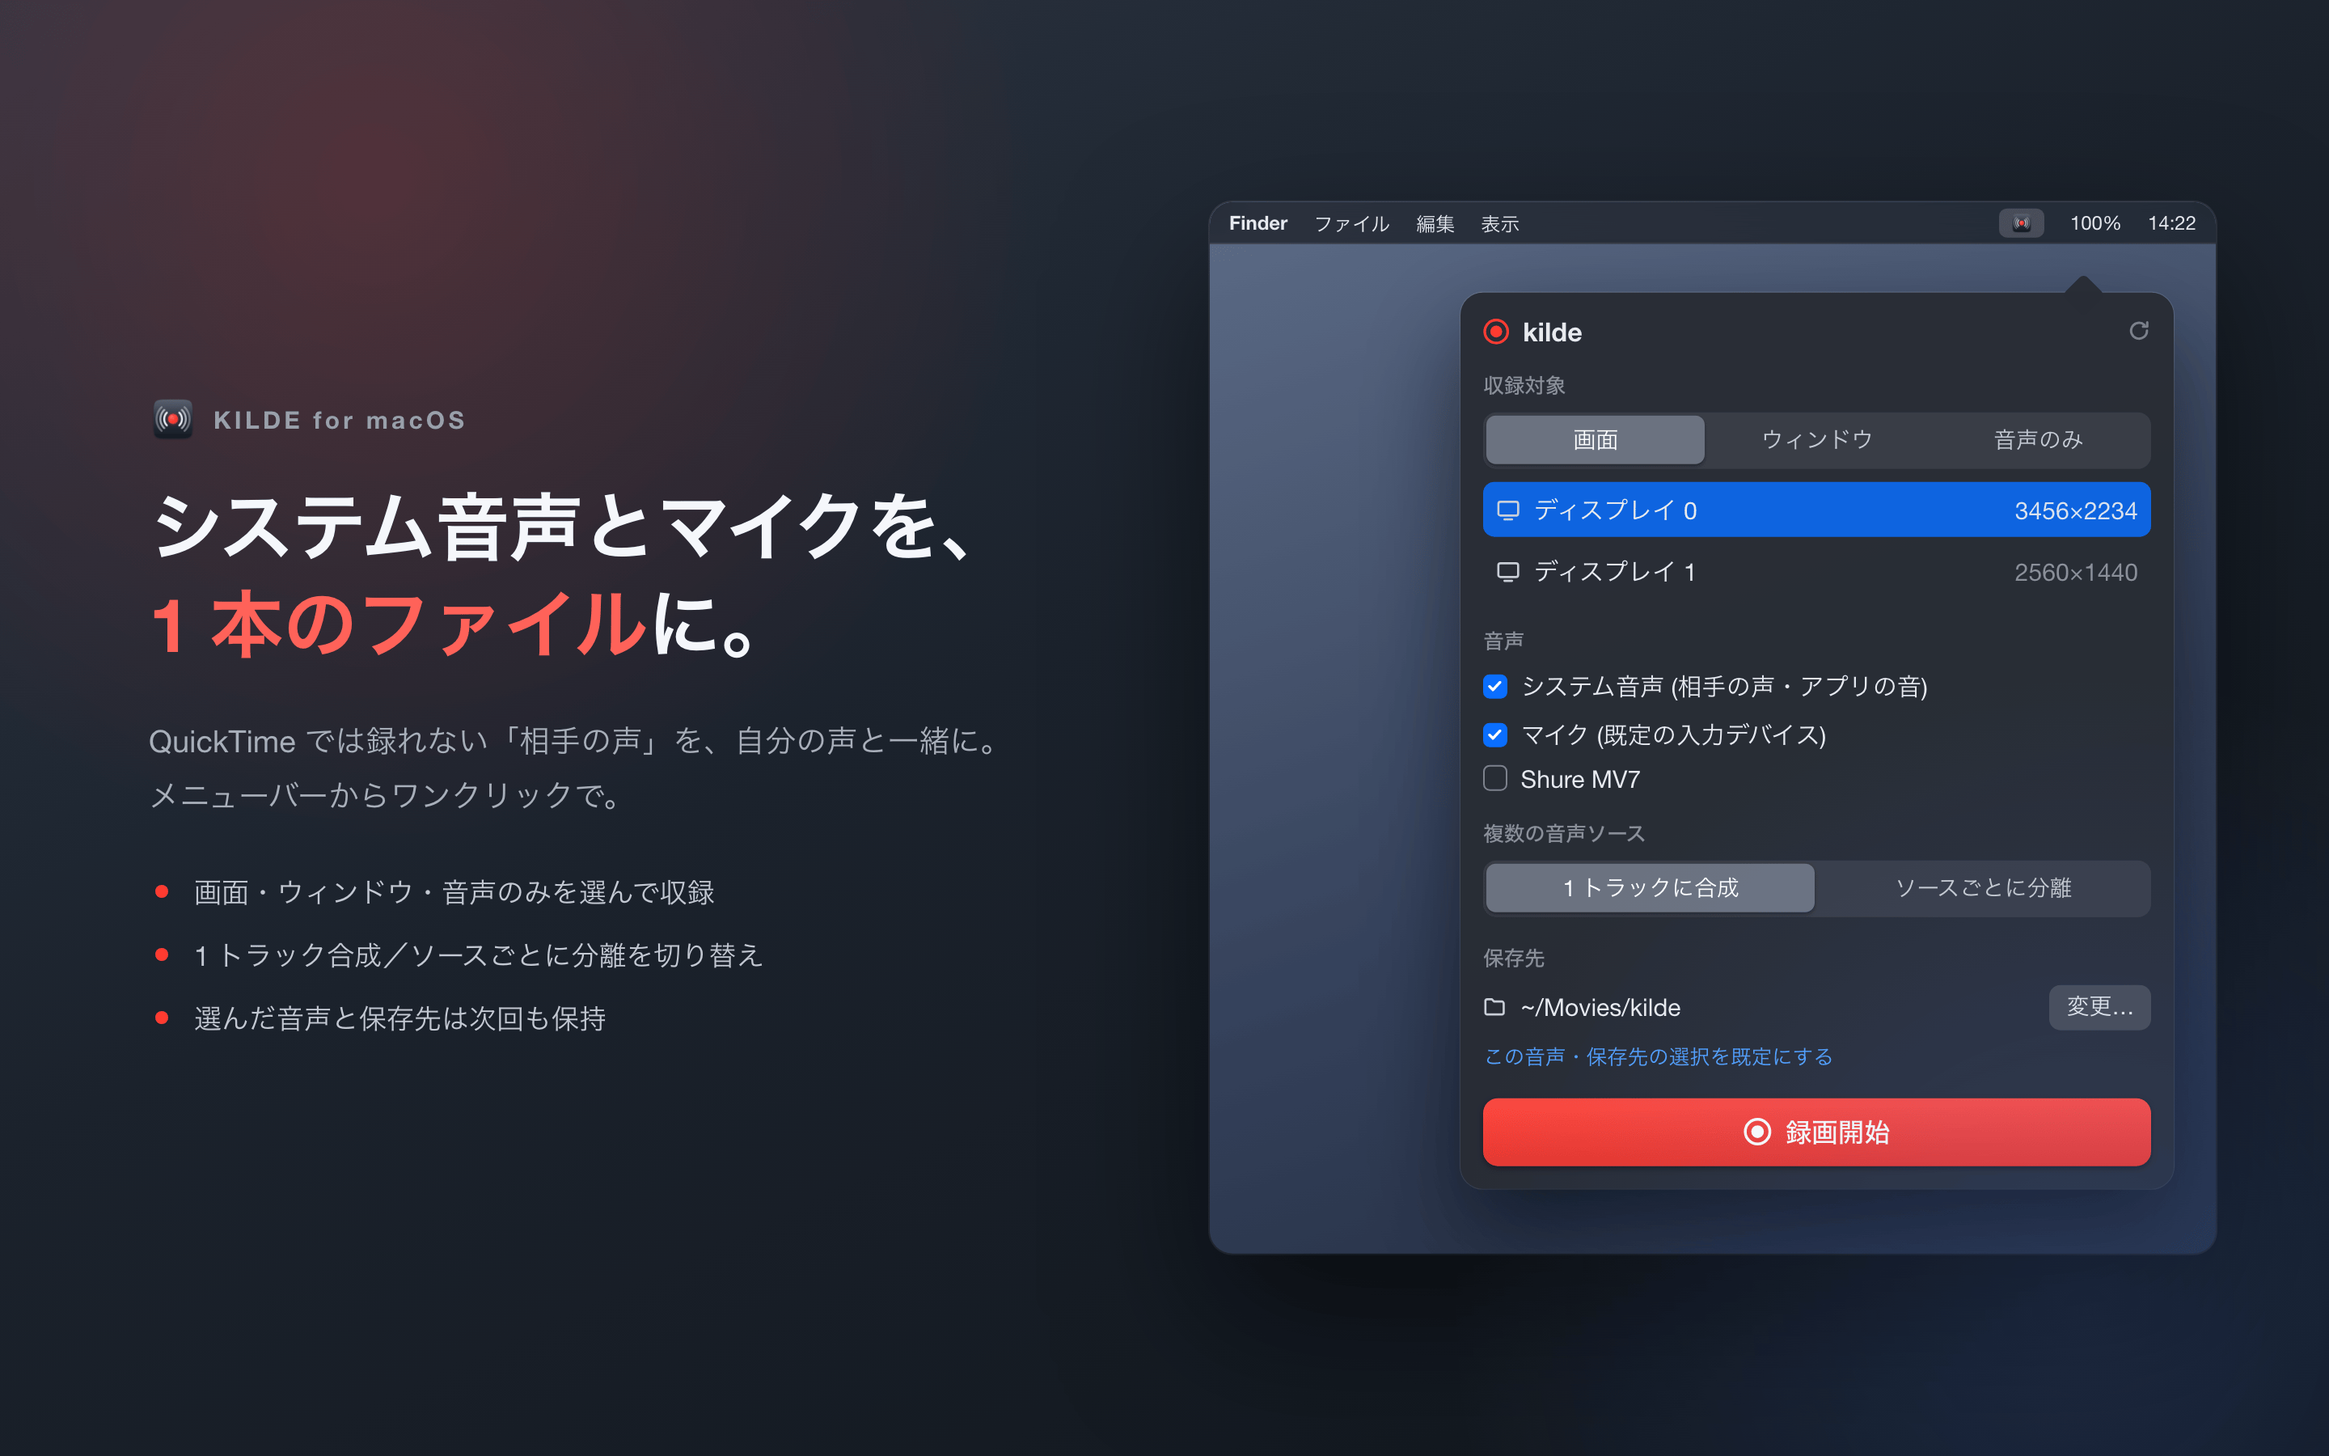
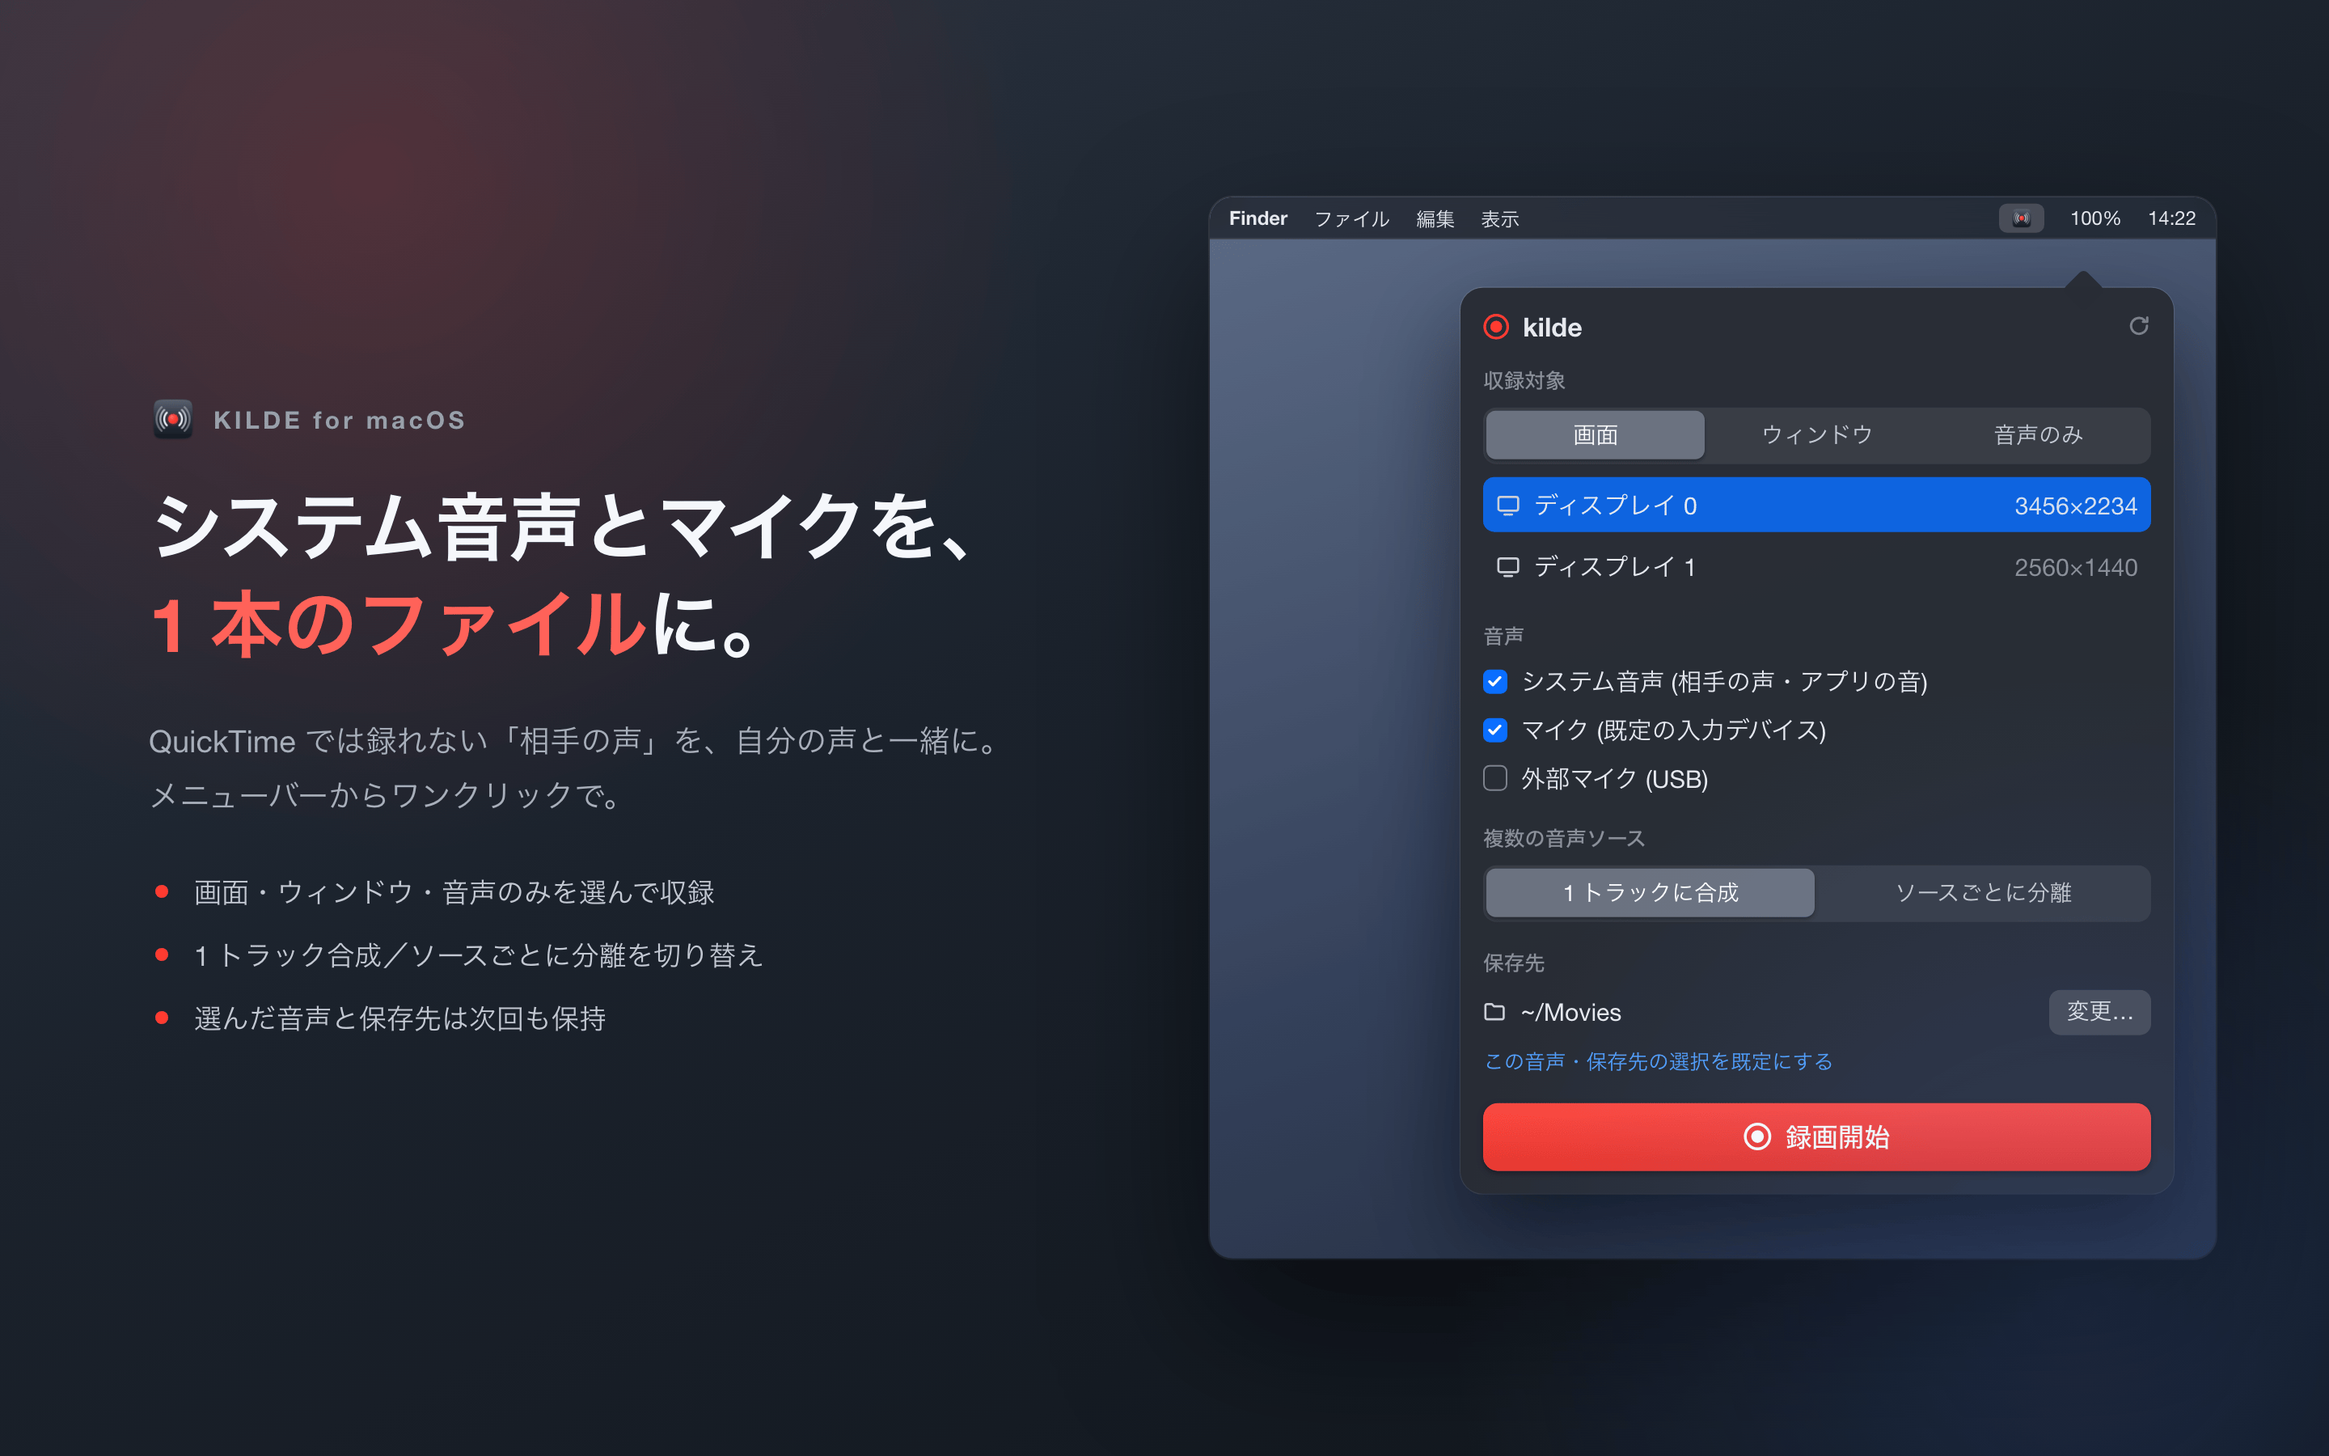
Address the remaining review findings on the App Store work
Code:
- The MAS build hung when KILDE_GUI_SELFTEST_UPDATE=1 was set, because the
  Sparkle check is compiled out and nothing else ended the process. It now
  fails with an explanation.
- A save location restored from config but unreachable under the sandbox
  (an unplugged volume, a folder the app has no bookmark for) kept the
  recording broken on every attempt. RecordingSetup falls back to ~/Movies
  when the path is not writable; isWritableFile reflects sandbox
  permissions (measured).

appstore-archive.sh:
- Validate --version the way App Store Connect does (1-3 integers, <= 18
  characters) instead of stamping anything into Info.plist.
- Require --version and --build with --upload, so an upload cannot go out
  carrying the repository's stale 0.1.0 / build 1.
- Export into an empty directory and move the result out, so a stale .pkg
  from an earlier run can never be reported as the current artifact.

Screenshot tooling:
- Drop the real product name from the mock, match the default save
  location to what the MAS build actually shows (~/Movies), and keep the
  "safe finish" claim within what DESIGN.md guarantees.
- icon.py resolves a relative output path against its own location.
- build.py warns when the expected font is missing.
- Add sync_appicon.py: icon.py/render.py never touched the asset catalog,
  so a regenerated icon silently never reached the build.
- Regenerate the three affected screenshots.
[…]

diff --git a/gui/Sources/RecordingSetup.swift b/gui/Sources/RecordingSetup.swift
@@ -94,6 +94,13 @@ final class RecordingSetup: ObservableObject {
         // request を作り直して復元結果を上書きする (CodeRabbit レビュー指摘)
         if let restored = SandboxOutputDirectory.restore() {
             request.outputDirectory = restored
+        } else if !FileManager.default.isWritableFile(atPath: request.outputDirectory.path) {
+            // bookmark が無い・復元できない (外付けを外した等) とき、config に残った
+            // 保存先はサンドボックスから開けないことがある。そのままだと録画のたびに
+            // 開始前で失敗し、既定へ戻る手段もユーザーに見えない (cubic レビュー指摘)。
+            // `isWritableFile` はサンドボックスの権限を反映する — movies エンタイトルメント
+            // だけのとき ~/Movies=true, ~/Desktop=false になることを実測 (2026-09-18)
+            request.outputDirectory = fallback
         }
 #endif
         hotkeyDraft = config.hotkey ?? ""

diff --git a/gui/Sources/SelfTest.swift b/gui/Sources/SelfTest.swift
@@ -34,6 +34,13 @@ enum SelfTest {
             reportUpdateSetup(updater: updater)
             return
         }
+#else
+        // MAS ビルドには Sparkle が無いので検証できない。**黙って素通ししない** —
+        // 素通しすると「終了しないセルフテスト」になり、直接起動したプロセスが
+        // 常駐する (検証スクリプトがハングする。cubic レビュー指摘)
+        if env["KILDE_GUI_SELFTEST_UPDATE"] == "1" {
+            fail("KILDE_GUI_SELFTEST_UPDATE は MAS ビルドでは使えません (Sparkle 非搭載)")
+        }
 #endif
         // KILDE_GUI_SELFTEST_PERMISSIONS=1: 構成ごとに「何の権限を要求するか」を出して終わる (issue #19)。
         // 実際に TCC の許可を取り消さないと確かめられない部分 (案内の見た目) は人の目に頼るしかないが、

diff --git a/docs/appstore/tools/sync_appicon.py b/docs/appstore/tools/sync_appicon.py
@@ -1,0 +1,54 @@
+# -*- coding: utf-8 -*-
+"""render.py が書き出した png/ を gui/Resources/Assets.xcassets/AppIcon.appiconset/ へ同期する。
+
+`icon.py` → `render.py` はアイコンの SVG と PNG を作るだけで、**ビルドに入る
+asset catalog は更新しない**。同期を忘れるとアイコンを作り直したつもりで
+MAS 成果物が旧版のままになる (cubic / CodeRabbit レビュー指摘)。
+
+**アイコンの意匠を作り直したときにだけ実行すること。** リポジトリに入っている
+PNG は納品物 `kilde-appicon.zip` の書き出し (README §1) で、`tools/` のサイズ別
+バリアントとは別物 — 実行すると後者で置き換わる。
+
+    python3 icon.py ../icon && python3 render.py && python3 sync_appicon.py
+"""
+import json
+import pathlib
+import shutil
+import sys
+
+HERE = pathlib.Path(__file__).resolve().parent
+# 入力は render.py の出力先、出力はビルドが読む asset catalog。どちらも
+# スクリプト位置基準で解決する (render.py / build.py と同じ方針)
+PNG = HERE.parent / "png"
+ICONSET = HERE.parents[2] / "gui" / "Resources" / "Assets.xcassets" / "AppIcon.appiconset"
+
+
+def main() -> int:
+    contents_path = ICONSET / "Contents.json"
+    if not contents_path.exists():
+        print(f"error: {contents_path} が見つかりません", file=sys.stderr)
+        return 1
+    images = json.loads(contents_path.read_text(encoding="utf-8"))["images"]
+    missing = []
+    for image in images:
+        filename = image.get("filename")
+        if not filename:
+            continue
+        # 実ピクセル数は size ("16x16") の一辺 × scale ("2x")。
+        # 16/32/64/128/256/512/1024 は render.py の PLAN と過不足なく一致する
+        pixels = int(image["size"].split("x")[0]) * int(image["scale"].rstrip("x"))
+        source = PNG / f"icon_{pixels}.png"
+        if not source.exists():
+            missing.append(source.name)
+            continue
+        shutil.copyfile(source, ICONSET / filename)
+        print(f"{source.name} -> {filename}")
+    if missing:
+        print("error: PNG が足りません: " + ", ".join(sorted(set(missing)))
+              + " (先に icon.py と render.py を実行してください)", file=sys.stderr)
+        return 1
+    return 0
+
+
+if __name__ == "__main__":
+    raise SystemExit(main())

diff --git a/docs/appstore/tools/build.py b/docs/appstore/tools/build.py
@@ -171,9 +171,9 @@ SHOTS = [
                  "ログイン時に自動起動して録り逃さない"],
          body=panel.panel_audio_only()),
     dict(name="05-safe-finish",
-         h1='どう終わっても、<br><span class="hl">壊れたファイルを残さない</span>。',
-         sub="停止しても、アプリを終了しても、アップデートの再起動でも。書き込み中のファイルは必ず仕上げてから終了します。",
-         points=["終了経路によらずファイルをファイナライズ",
+         h1='停止しても終了しても、<br><span class="hl">壊れたファイルを残さない</span>。',
+         sub="停止ボタンでも、メニューからの終了でも。書き込み中のファイルは仕上げてから終了します。",
+         points=["停止・アプリ終了のどちらでもファイナライズ",
                  "最近の録画から Finder へワンクリック",
                  "オープンソース (MIT) / データ収集なし"],
          body=panel.panel_done()),
@@ -186,6 +186,15 @@ async def main():
     async with async_playwright() as p:
         b = await p.chromium.launch()
         pg = await b.new_page(viewport={"width": 1440, "height": 900}, device_scale_factor=2)
+        # 描画フォントは実行環境に依存する (CSS の font-family は "Noto Sans CJK JP" →
+        # "Helvetica Neue" → sans-serif)。入っていない環境で再生成すると字幅と改行が
+        # 変わり、同じ絵にならない。**黙って別物を作らない**ために警告を出す
+        # (cubic レビュー指摘)。リポジトリ同梱は Noto CJK が 16MB 級で割に合わないため、
+        # 「気づける」ことで担保する
+        await pg.set_content('<html><body>x</body></html>')
+        if not await pg.evaluate('document.fonts.check(\'16px "Noto Sans CJK JP"\')'):
+            print('warning: "Noto Sans CJK JP" が見つかりません — 字形と改行が'
+                  'コミット済みのスクリーンショットと変わります', file=sys.stderr)
         for s in SHOTS:
             await pg.set_content(page(None, s["h1"], s["sub"], s["points"], s["body"],
                                       icon_uri, s.get("menubar_recording", False)))

diff --git a/docs/appstore/tools/panel.py b/docs/appstore/tools/panel.py
@@ -66,11 +66,11 @@ def panel_setup():
       <div class="checks">
         <div class="ck">{check(True)}<span>システム音声 (相手の声・アプリの音)</span></div>
         <div class="ck">{check(True)}<span>マイク (既定の入力デバイス)</span></div>
-        <div class="ck">{check(False)}<span>Shure MV7</span></div>
+        <div class="ck">{check(False)}<span>外部マイク (USB)</span></div>
       </div>''')
     body += section("複数の音声ソース", seg(["1 トラックに合成", "ソースごとに分離"], 0))
     body += section("保存先", f'''
-      <div class="line">{sym("folder","#C9CED6")}<span>~/Movies/kilde</span><span class="spacer"></span>
+      <div class="line">{sym("folder","#C9CED6")}<span>~/Movies</span><span class="spacer"></span>
         <span class="btn">変更…</span></div>
       <div class="link">この音声・保存先の選択を既定にする</div>''')
     body += '<div class="startwrap">' + \
@@ -107,7 +107,7 @@ def panel_done():
     body += f'''
       <div class="result">
         <div class="ok">{sym("check","#30D158",14)}<span>保存しました</span></div>
-        <div class="dim sm path">~/Movies/kilde/kilde-20260916-142201.mp4</div>
+        <div class="dim sm path">~/Movies/kilde-20260916-142201.mp4</div>
       </div>'''
     body += section("グローバルホットキー", f'''
       <div class="line">{sym("keyboard","#C9CED6")}
@@ -137,7 +137,7 @@ def panel_audio_only():
       </div>''')
     body += section("複数の音声ソース", seg(["1 トラックに合成", "ソースごとに分離"], 1))
     body += section("保存先", f'''
-      <div class="line">{sym("folder","#C9CED6")}<span>~/Movies/kilde</span><span class="spacer"></span>
+      <div class="line">{sym("folder","#C9CED6")}<span>~/Movies</span><span class="spacer"></span>
         <span class="btn">変更…</span></div>''')
     body += section("起動", f'<div class="ck">{check(True)}<span>ログイン時に kilde を起動する</span></div>')
     body += '<div class="startwrap">' + \

diff --git a/docs/appstore/tools/icon.py b/docs/appstore/tools/icon.py
@@ -91,7 +91,12 @@ def build(variant):
 
 if __name__ == "__main__":
     import sys, pathlib
-    out = pathlib.Path(sys.argv[1])
+    arg = pathlib.Path(sys.argv[1])
+    # 相対パスは **スクリプト位置基準** で解決する。カレントディレクトリ基準だと
+    # リポジトリルートから実行したときに render.py の入力先 (docs/appstore/icon) 以外へ
+    # 書き、PNG の再生成が古いアイコンを処理してしまう (cubic レビュー指摘)。
+    # render.py / build.py が既にこの方式 (cubic レビュー指摘)
+    out = arg if arg.is_absolute() else pathlib.Path(__file__).resolve().parent / arg
     out.mkdir(parents=True, exist_ok=True)
     for v in ("full", "mid", "small"):
         (out / f"icon-{v}.svg").write_text(build(v))

diff --git a/docs/DEVELOPMENT.md b/docs/DEVELOPMENT.md
@@ -276,14 +276,22 @@ xcodebuild -project KildeGUI.xcodeproj -scheme KildeGUI-AppStore \
 **`~/Movies` 配下**にします。サンドボックスでは tmp やホーム直下には書けず、
 書けるのはアプリコンテナ・`~/Movies` (entitlement)・NSOpenPanel で選んだ場所だけです:
 
+**署名の選び方** — 2 つのコマンドは同じではありません。`kilde-dev` 証明書がある環境では
+そちらを使ってください。ad-hoc 署名は TCC がビルドのたびにアプリを別物と見なすため、
+画面収録・マイクの許可を再起動のたびに付け直すことになります (cubic レビュー指摘。
+§3 の kilde-dev 作成手順を参照):
+
 ```sh
-# kilde-dev 証明書があれば CODE_SIGNING_ALLOWED=NO を外して普通に署名ビルドしてよい。
-# 無い環境では ad-hoc + Hardened Runtime オフでローカル起動だけ可能にする
-# (App Sandbox 自体は entitlement なので ad-hoc でも有効。TCC トグルの安定性は
-#  kilde-dev の方が良い — §3 の kilde-dev 作成手順を参照)
+# (A) kilde-dev 証明書がある環境 — project.yml の既定のまま署名する。TCC が安定する
+xcodebuild -project KildeGUI.xcodeproj -scheme KildeGUI-AppStore -configuration Debug build \
+  -derivedDataPath /tmp/kilde-mas
+
+# (B) 証明書が無い環境 — ad-hoc + Hardened Runtime オフでローカル起動だけ可能にする
+#     (App Sandbox 自体は entitlement なので ad-hoc でも有効。TCC の許可は毎回付け直し)
 xcodebuild -project KildeGUI.xcodeproj -scheme KildeGUI-AppStore -configuration Debug build \
   CODE_SIGN_IDENTITY=- CODE_SIGN_STYLE=Manual ENABLE_HARDENED_RUNTIME=NO \
   -derivedDataPath /tmp/kilde-mas
+
 mkdir -p ~/Movies/kilde-selftest
 KILDE_GUI_SELFTEST_RECORD=3 KILDE_GUI_SELFTEST_AUDIO=none \
   KILDE_GUI_SELFTEST_OUTPUT="$HOME/Movies/kilde-selftest" \
